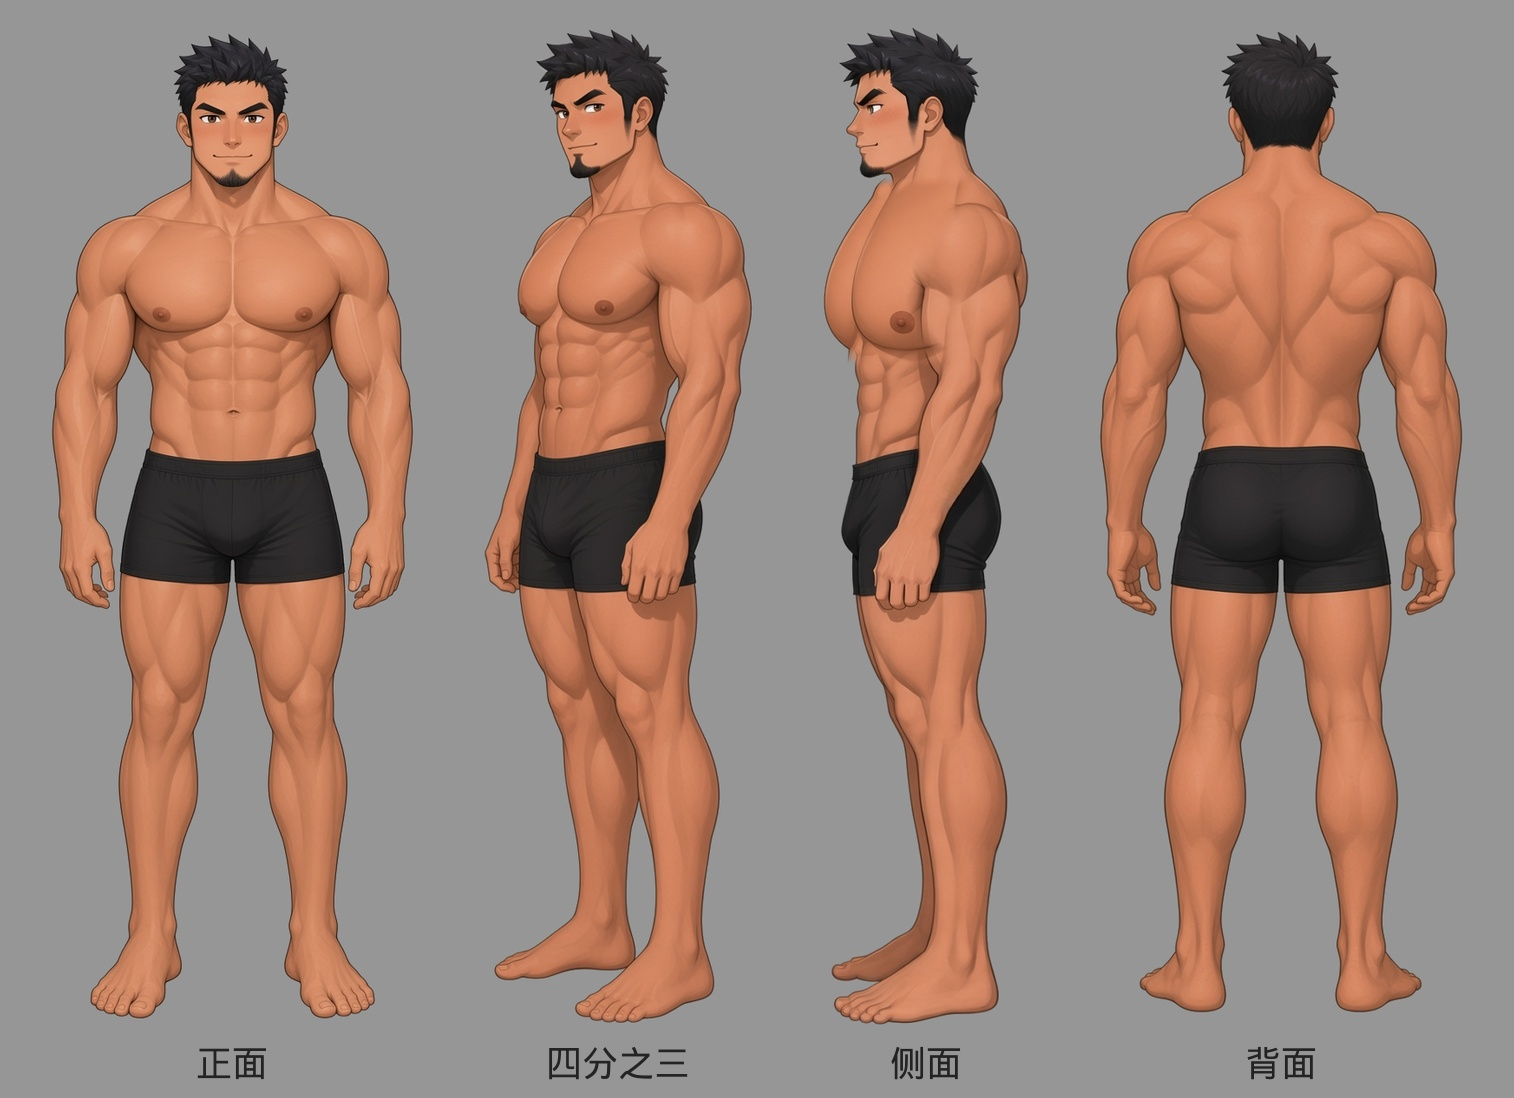
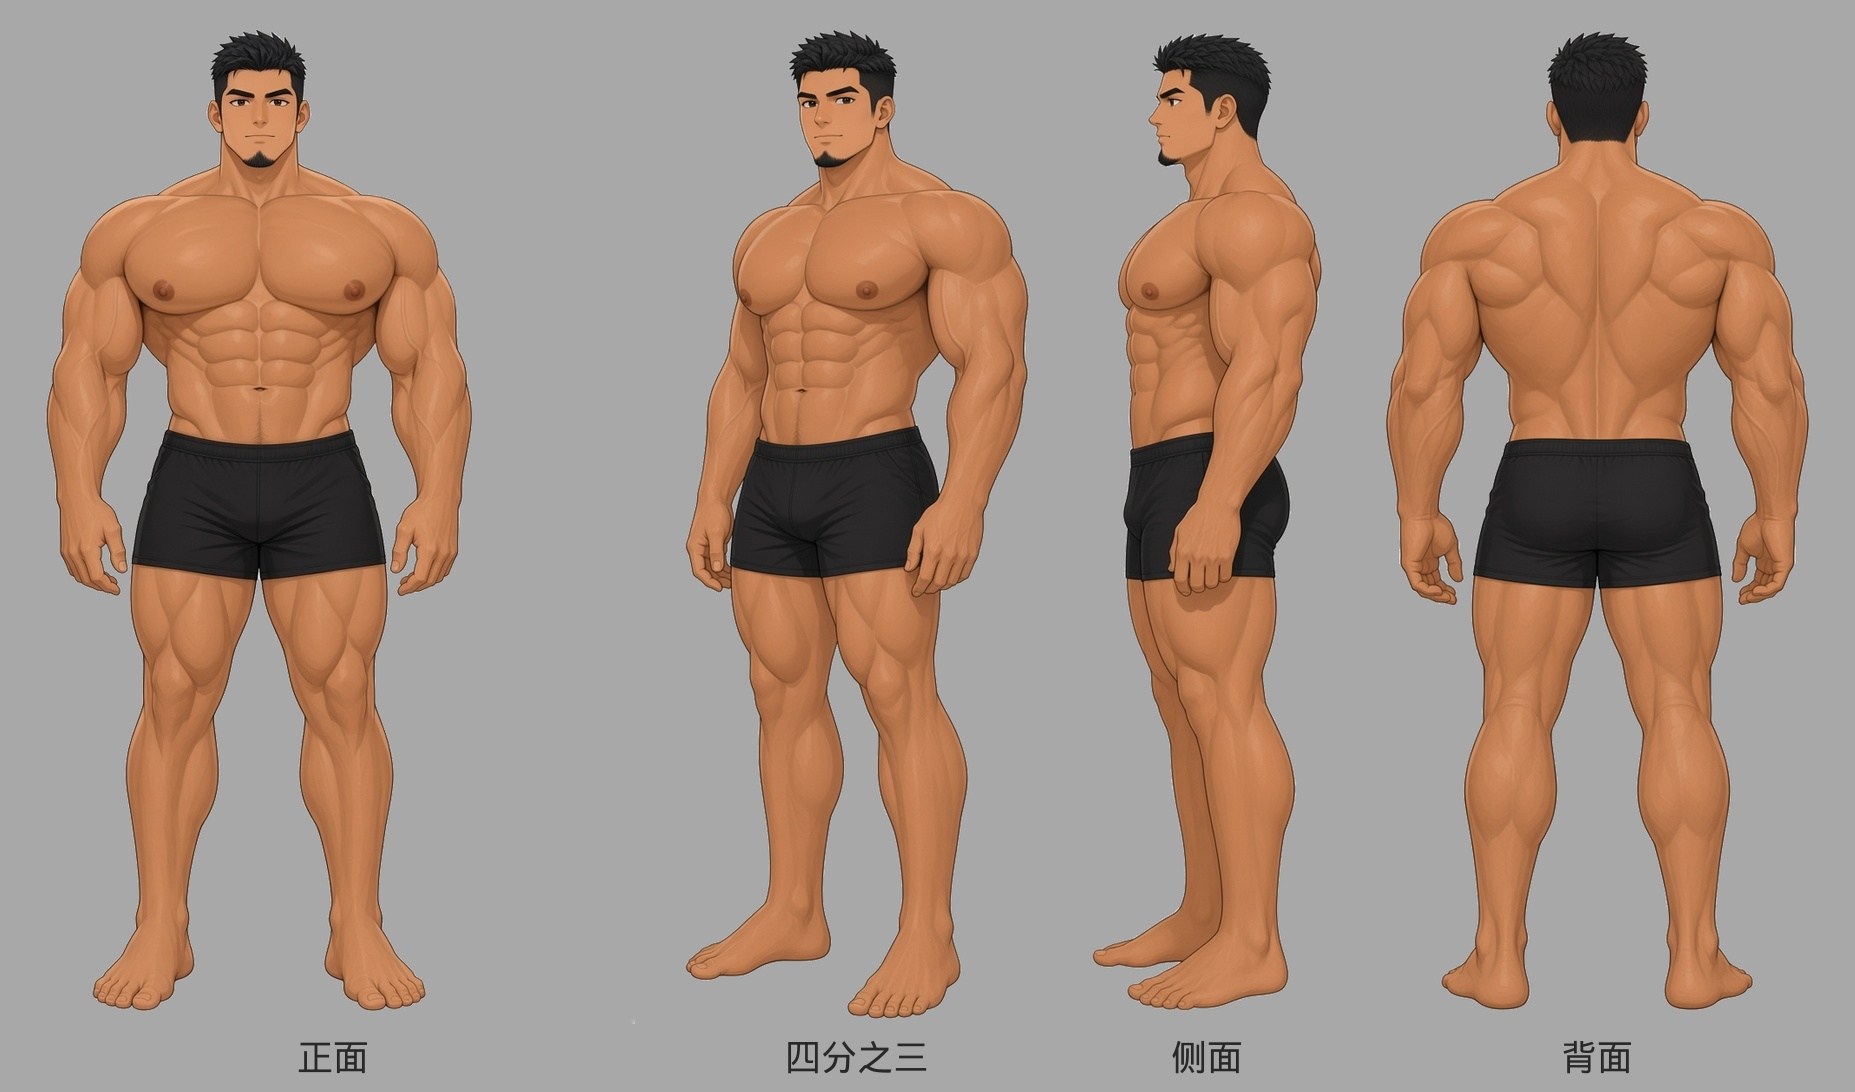
fix: 按给定身材把上胸再撑满一点
全身比例跟用户这张，上胸略抬高，下缘仍收回腹肌。

diff --git a/人物设定图/设定说明.md b/人物设定图/设定说明.md
@@ -7,7 +7,7 @@
 ## 识别点
 
 - 脸：短碎发。眼往侧看，深棕色。下颌收尖，下巴有一小撮山羊胡，颊侧淡胡茬。
-- 体：高，腿长。胸比大球那版收小。上胸抬高，是最鼓的位置。下缘短，收回腹肌，不往下坠。肩宽，腹肌清楚。
+- 体：按用户给的全身图。高，腿长，肩宽，手臂厚，腹肌清楚。上胸比那张再饱满一点，是最鼓的位置。下缘收回腹肌，不往下坠。
 - 肤色：暖小麦色。渲染用哑光，不要油亮高光。
 
 ## 图
